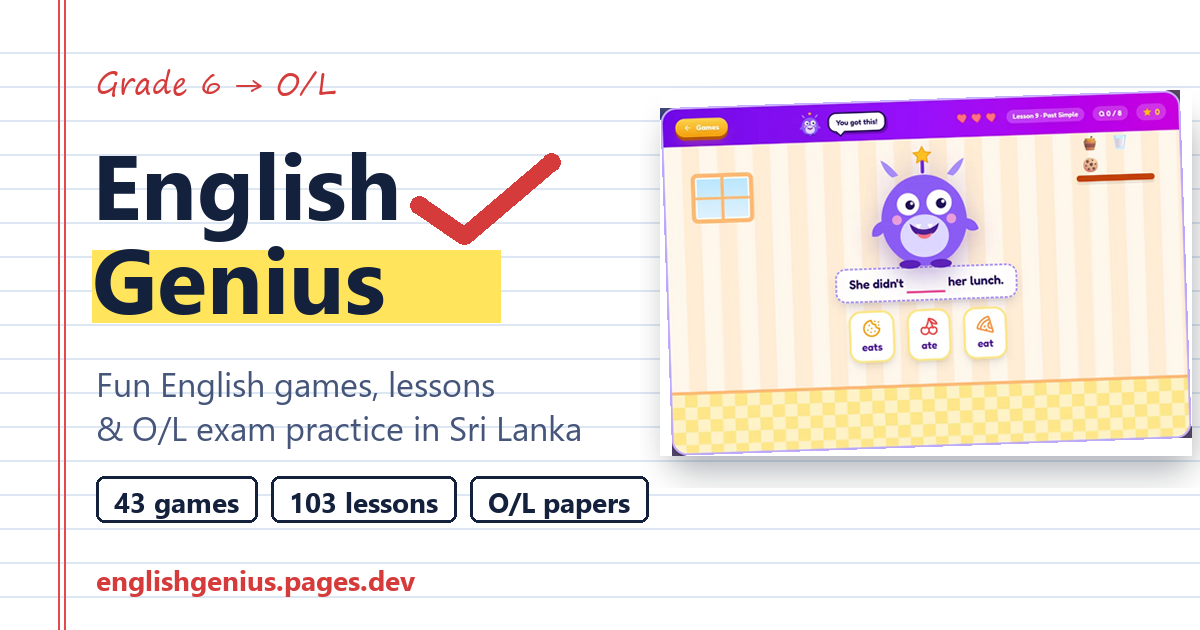
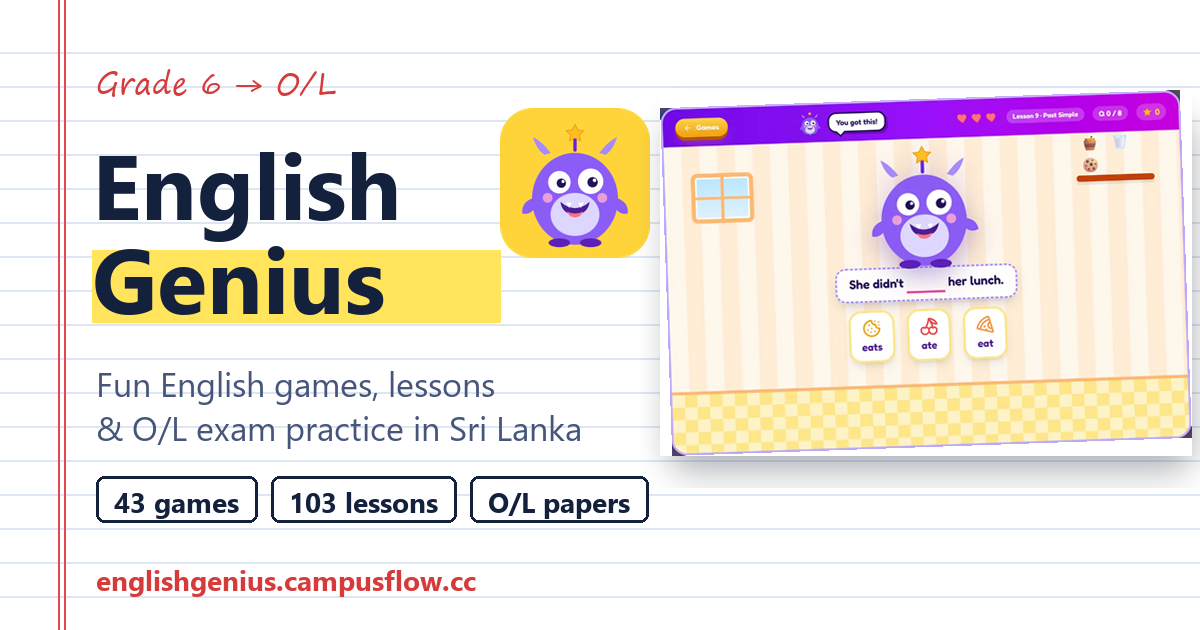
new

Changed region(s): [[0.3392, 0.1508, 0.555, 0.4222], [0.2467, 0.9048, 0.4008, 0.9651]]

diff --git a/ta/index.html b/ta/index.html
@@ -5,11 +5,11 @@
 <meta name="viewport" content="width=device-width, initial-scale=1, viewport-fit=cover">
 <title>English Genius | ஆங்கில விளையாட்டுகள் &amp; O/L பாடங்கள்</title>
 <meta name="description" content="தரம் 6 முதல் O/L வரையிலான இலங்கை மாணவர்களுக்கு 43 ஆங்கில விளையாட்டுகள், 103 பாடங்கள், 12 காலங்கள், பேச்சுப் பயிற்சி மற்றும் உண்மை வடிவ O/L பயிற்சி வினாத்தாள்கள்.">
-<link rel="canonical" href="https://englishgenius.pages.dev/ta/">
-<link rel="alternate" hreflang="en" href="https://englishgenius.pages.dev/">
-<link rel="alternate" hreflang="si" href="https://englishgenius.pages.dev/si/">
-<link rel="alternate" hreflang="ta" href="https://englishgenius.pages.dev/ta/">
-<link rel="alternate" hreflang="x-default" href="https://englishgenius.pages.dev/">
+<link rel="canonical" href="https://englishgenius.campusflow.cc/ta/">
+<link rel="alternate" hreflang="en" href="https://englishgenius.campusflow.cc/">
+<link rel="alternate" hreflang="si" href="https://englishgenius.campusflow.cc/si/">
+<link rel="alternate" hreflang="ta" href="https://englishgenius.campusflow.cc/ta/">
+<link rel="alternate" hreflang="x-default" href="https://englishgenius.campusflow.cc/">
 <meta name="robots" content="index, follow, max-image-preview:large">
 <meta name="theme-color" content="#14213D">
 <meta name="color-scheme" content="light">
@@ -18,15 +18,15 @@
 <meta property="og:site_name" content="English Genius">
 <meta property="og:title" content="English Genius: மகிழ்ச்சியாக ஆங்கிலம் கற்போம்">
 <meta property="og:description" content="தரம் 6 முதல் O/L வரையிலான மாணவர்களுக்கு விளையாட்டுகள், பாடங்கள், பேச்சுப் பயிற்சி மற்றும் O/L வினாத்தாள்கள்.">
-<meta property="og:url" content="https://englishgenius.pages.dev/ta/">
-<meta property="og:image" content="https://englishgenius.pages.dev/assets/og-image.png">
+<meta property="og:url" content="https://englishgenius.campusflow.cc/ta/">
+<meta property="og:image" content="https://englishgenius.campusflow.cc/assets/og-image.png">
 <meta property="og:image:width" content="1200">
 <meta property="og:image:height" content="630">
 <meta property="og:locale" content="ta_LK">
 <meta name="twitter:card" content="summary_large_image">
 <meta name="twitter:title" content="English Genius: மகிழ்ச்சியாக ஆங்கிலம் கற்போம்">
 <meta name="twitter:description" content="தரம் 6 முதல் O/L வரையிலான மாணவர்களுக்கு விளையாட்டுகள், பாடங்கள், பேச்சுப் பயிற்சி மற்றும் O/L வினாத்தாள்கள்.">
-<meta name="twitter:image" content="https://englishgenius.pages.dev/assets/og-image.png">
+<meta name="twitter:image" content="https://englishgenius.campusflow.cc/assets/og-image.png">
 <link rel="icon" href="../favicon.ico" sizes="32x32">
 <link rel="icon" href="../assets/icon.svg" type="image/svg+xml">
 <link rel="apple-touch-icon" href="../assets/icon-180.png">
@@ -35,15 +35,15 @@
 <link rel="preconnect" href="https://fonts.gstatic.com" crossorigin>
 <link href="https://fonts.googleapis.com/css2?family=Bricolage+Grotesque:opsz,wght@12..96,600;12..96,800&family=Lexend:wght@400;600;700&family=Caveat:wght@600;700&family=Noto+Sans+Tamil:wght@500;700;800&display=swap" rel="stylesheet">
 <link rel="preload" as="image" href="../assets/shots/feed.webp" type="image/webp">
-<link rel="stylesheet" href="../assets/site.css?v=mvhv3kwt">
-<script type="application/ld+json">{"@context":"https://schema.org","@graph":[{"@type":"EducationalOrganization","@id":"https://englishgenius.pages.dev/#org","name":"English Genius","url":"https://englishgenius.pages.dev/","logo":"https://englishgenius.pages.dev/assets/icon-512.png","description":"தரம் 6 முதல் O/L வரையிலான இலங்கை மாணவர்களுக்கு 43 ஆங்கில விளையாட்டுகள், 103 பாடங்கள், 12 காலங்கள், பேச்சுப் பயிற்சி மற்றும் உண்மை வடிவ O/L பயிற்சி வினாத்தாள்கள்.","areaServed":{"@type":"Country","name":"Sri Lanka"},"address":{"@type":"PostalAddress","addressCountry":"LK"},"contactPoint":{"@type":"ContactPoint","telephone":"+94722816456","contactType":"customer support","areaServed":"LK","availableLanguage":["English","Sinhala","Tamil"]}},{"@type":"WebSite","@id":"https://englishgenius.pages.dev/#site","name":"English Genius","url":"https://englishgenius.pages.dev/","inLanguage":"ta","publisher":{"@id":"https://englishgenius.pages.dev/#org"}},{"@type":"WebPage","name":"English Genius | ஆங்கில விளையாட்டுகள் & O/L பாடங்கள்","url":"https://englishgenius.pages.dev/ta/","inLanguage":"ta","isPartOf":{"@id":"https://englishgenius.pages.dev/#site"},"about":{"@id":"https://englishgenius.pages.dev/#org"}},{"@type":"FAQPage","inLanguage":"ta","mainEntity":[{"@type":"Question","name":"கணக்கை எப்படிப் பெறுவது?","acceptedAnswer":{"@type":"Answer","text":"072 281 6456 இல் WhatsApp அல்லது தொலைபேசி மூலம் எங்களைத் தொடர்பு கொள்ளுங்கள். நாங்கள் கணக்கை உருவாக்கி பயனர்பெயரையும் கடவுச்சொல்லையும் அனுப்புவோம்."}},{"@type":"Question","name":"இது எந்தத் தரங்களுக்கு?","acceptedAnswer":{"@type":"Answer","text":"தரம் 6, 7, 8, 9 மற்றும் O/L (தரம் 10, 11). ஒவ்வொரு தரத்திற்கும் சொந்தப் பாடங்களும் மாதிரித் தேர்வும் உண்டு."}},{"@type":"Question","name":"ஏதாவது நிறுவ வேண்டுமா?","acceptedAnswer":{"@type":"Answer","text":"இல்லை. இது தொலைபேசி, டேப்லெட் மற்றும் கணினிகளின் இணைய உலாவியில் இயங்குகிறது. செயலி போல முகப்புத் திரையிலும் சேர்க்கலாம்."}},{"@type":"Question","name":"இது O/L ஆங்கில வினாத்தாளைப் பின்பற்றுகிறதா?","acceptedAnswer":{"@type":"Answer","text":"ஆம். பயிற்சி வினாத்தாள்கள் O/L ஆங்கில வினாத்தாளின் 16-சோதனை வடிவத்தைப் பின்பற்றுகின்றன, சொந்த வினாக்கள் மற்றும் மதிப்பீட்டு வழிகாட்டியுடன்."}},{"@type":"Question","name":"இது குழந்தைகளுக்குப் பாதுகாப்பானதா?","acceptedAnswer":{"@type":"Answer","text":"ஆம். பொதுப் பதிவு, விளம்பரங்கள் அல்லது அந்நியர்களுடன் அரட்டை இல்லை. ஒவ்வொரு மாணவரும் எதைத் திறக்கலாம் என்பதை ஆசிரியர்கள் கட்டுப்படுத்துகிறார்கள்."}},{"@type":"Question","name":"மாணவர்கள் பேச்சுப் பயிற்சி செய்யலாமா?","acceptedAnswer":{"@type":"Answer","text":"ஆம். Talk Town பாடங்களும் குரல் விளையாட்டுகளும் மைக்ரோஃபோனைப் பயன்படுத்துகின்றன, எனவே மாணவர்கள் பேசவும் கேட்கவும் பயிற்சி செய்யலாம்."}}]}]}</script>
+<link rel="stylesheet" href="../assets/site.css?v=mvhvpg10">
+<script type="application/ld+json">{"@context":"https://schema.org","@graph":[{"@type":"EducationalOrganization","@id":"https://englishgenius.campusflow.cc/#org","name":"English Genius","url":"https://englishgenius.campusflow.cc/","logo":"https://englishgenius.campusflow.cc/assets/icon-512.png","description":"தரம் 6 முதல் O/L வரையிலான இலங்கை மாணவர்களுக்கு 43 ஆங்கில விளையாட்டுகள், 103 பாடங்கள், 12 காலங்கள், பேச்சுப் பயிற்சி மற்றும் உண்மை வடிவ O/L பயிற்சி வினாத்தாள்கள்.","areaServed":{"@type":"Country","name":"Sri Lanka"},"address":{"@type":"PostalAddress","addressCountry":"LK"},"contactPoint":{"@type":"ContactPoint","telephone":"+94722816456","contactType":"customer support","areaServed":"LK","availableLanguage":["English","Sinhala","Tamil"]}},{"@type":"WebSite","@id":"https://englishgenius.campusflow.cc/#site","name":"English Genius","url":"https://englishgenius.campusflow.cc/","inLanguage":"ta","publisher":{"@id":"https://englishgenius.campusflow.cc/#org"}},{"@type":"WebPage","name":"English Genius | ஆங்கில விளையாட்டுகள் & O/L பாடங்கள்","url":"https://englishgenius.campusflow.cc/ta/","inLanguage":"ta","isPartOf":{"@id":"https://englishgenius.campusflow.cc/#site"},"about":{"@id":"https://englishgenius.campusflow.cc/#org"}},{"@type":"FAQPage","inLanguage":"ta","mainEntity":[{"@type":"Question","name":"கணக்கை எப்படிப் பெறுவது?","acceptedAnswer":{"@type":"Answer","text":"072 281 6456 இல் WhatsApp அல்லது தொலைபேசி மூலம் எங்களைத் தொடர்பு கொள்ளுங்கள். நாங்கள் கணக்கை உருவாக்கி பயனர்பெயரையும் கடவுச்சொல்லையும் அனுப்புவோம்."}},{"@type":"Question","name":"இது எந்தத் தரங்களுக்கு?","acceptedAnswer":{"@type":"Answer","text":"தரம் 6, 7, 8, 9 மற்றும் O/L (தரம் 10, 11). ஒவ்வொரு தரத்திற்கும் சொந்தப் பாடங்களும் மாதிரித் தேர்வும் உண்டு."}},{"@type":"Question","name":"ஏதாவது நிறுவ வேண்டுமா?","acceptedAnswer":{"@type":"Answer","text":"இல்லை. இது தொலைபேசி, டேப்லெட் மற்றும் கணினிகளின் இணைய உலாவியில் இயங்குகிறது. செயலி போல முகப்புத் திரையிலும் சேர்க்கலாம்."}},{"@type":"Question","name":"இது O/L ஆங்கில வினாத்தாளைப் பின்பற்றுகிறதா?","acceptedAnswer":{"@type":"Answer","text":"ஆம். பயிற்சி வினாத்தாள்கள் O/L ஆங்கில வினாத்தாளின் 16-சோதனை வடிவத்தைப் பின்பற்றுகின்றன, சொந்த வினாக்கள் மற்றும் மதிப்பீட்டு வழிகாட்டியுடன்."}},{"@type":"Question","name":"இது குழந்தைகளுக்குப் பாதுகாப்பானதா?","acceptedAnswer":{"@type":"Answer","text":"ஆம். பொதுப் பதிவு, விளம்பரங்கள் அல்லது அந்நியர்களுடன் அரட்டை இல்லை. ஒவ்வொரு மாணவரும் எதைத் திறக்கலாம் என்பதை ஆசிரியர்கள் கட்டுப்படுத்துகிறார்கள்."}},{"@type":"Question","name":"மாணவர்கள் பேச்சுப் பயிற்சி செய்யலாமா?","acceptedAnswer":{"@type":"Answer","text":"ஆம். Talk Town பாடங்களும் குரல் விளையாட்டுகளும் மைக்ரோஃபோனைப் பயன்படுத்துகின்றன, எனவே மாணவர்கள் பேசவும் கேட்கவும் பயிற்சி செய்யலாம்."}}]}]}</script>
 </head>
 <body class="lang-ta">
 <a class="skip" href="#main">உள்ளடக்கத்திற்குச் செல்லவும்</a>
 
 <header class="bar">
   <nav class="nav wrap" aria-label="Main">
-    <a class="logo" href="../" aria-label="English Genius home"><svg class="tick" viewBox="0 0 40 32" aria-hidden="true"><path d="M3 17l10 10L37 3"/></svg><span>English <b>Genius</b></span></a>
+    <a class="logo" href="../" aria-label="English Genius home"><img class="mark" src="../assets/icon.svg" width="38" height="38" alt=""><span>English <b>Genius</b></span></a>
     <button class="menuBtn" aria-expanded="false" aria-controls="navLinks"><span class="sr">பட்டியல்</span><i></i><i></i><i></i></button>
     <div class="navLinks" id="navLinks">
       <a href="#games">விளையாட்டுகள்</a>
@@ -213,7 +213,7 @@
 
 <footer class="foot">
   <div class="wrap footIn">
-    <div><a class="logo" href="../"><svg class="tick" viewBox="0 0 40 32" aria-hidden="true"><path d="M3 17l10 10L37 3"/></svg><span>English <b>Genius</b></span></a><p>தரம் 6 முதல் O/L வரையிலான இலங்கை மாணவர்களுக்கு மகிழ்ச்சியான ஆங்கிலக் கற்றல்.</p></div>
+    <div><a class="logo" href="../"><img class="mark" src="../assets/icon.svg" width="38" height="38" alt=""><span>English <b>Genius</b></span></a><p>தரம் 6 முதல் O/L வரையிலான இலங்கை மாணவர்களுக்கு மகிழ்ச்சியான ஆங்கிலக் கற்றல்.</p></div>
     <nav class="footLinks" aria-label="Footer"><a href="#games">விளையாட்டுகள்</a><a href="#path">தரம் 6 → O/L</a><a href="#exam">O/L தேர்வு மண்டபம்</a><a href="#faq">கேள்விகள்</a><a href="../app/login.html" rel="nofollow">மாணவர் உள்நுழைவு</a></nav>
     <div class="footLinks"><a href="tel:+94722816456" data-tel><span data-phone>072 281 6456</span></a><a href="https://wa.me/94722816456?text=%E0%AE%B5%E0%AE%A3%E0%AE%95%E0%AF%8D%E0%AE%95%E0%AE%AE%E0%AF%8D!%20%E0%AE%A8%E0%AE%BE%E0%AE%A9%E0%AF%8D%20English%20Genius%20%E0%AE%87%E0%AE%B2%E0%AF%8D%20%E0%AE%87%E0%AE%A3%E0%AF%88%E0%AE%AF%20%E0%AE%B5%E0%AE%BF%E0%AE%B0%E0%AF%81%E0%AE%AE%E0%AF%8D%E0%AE%AA%E0%AF%81%E0%AE%95%E0%AE%BF%E0%AE%B1%E0%AF%87%E0%AE%A9%E0%AF%8D." data-wa target="_blank" rel="noopener">WhatsApp</a><div class="langs"><a href=".././" hreflang="en" lang="en">EN</a><a href="../si/" hreflang="si" lang="si">සිං</a><a href="../ta/" hreflang="ta" lang="ta" aria-current="page">தமி</a></div></div>
   </div>
@@ -222,6 +222,6 @@
 
 <a class="waFloat" href="https://wa.me/94722816456?text=%E0%AE%B5%E0%AE%A3%E0%AE%95%E0%AF%8D%E0%AE%95%E0%AE%AE%E0%AF%8D!%20%E0%AE%A8%E0%AE%BE%E0%AE%A9%E0%AF%8D%20English%20Genius%20%E0%AE%87%E0%AE%B2%E0%AF%8D%20%E0%AE%87%E0%AE%A3%E0%AF%88%E0%AE%AF%20%E0%AE%B5%E0%AE%BF%E0%AE%B0%E0%AF%81%E0%AE%AE%E0%AF%8D%E0%AE%AA%E0%AF%81%E0%AE%95%E0%AE%BF%E0%AE%B1%E0%AF%87%E0%AE%A9%E0%AF%8D." data-wa target="_blank" rel="noopener" aria-label="WhatsApp இல் பேசுங்கள்"><svg aria-hidden="true" viewBox="0 0 32 32"><path fill="currentColor" d="M16 3a13 13 0 0 0-11.2 19.6L3 29l6.6-1.7A13 13 0 1 0 16 3Zm0 23.6a10.6 10.6 0 0 1-5.4-1.5l-.4-.2-3.9 1 1-3.8-.2-.4A10.6 10.6 0 1 1 16 26.6Zm5.8-7.9c-.3-.2-1.9-.9-2.2-1s-.5-.2-.7.2-.8 1-1 1.2-.4.2-.7 0a8.6 8.6 0 0 1-4.3-3.7c-.3-.6.3-.5.9-1.6a.6.6 0 0 0 0-.5l-1-2.4c-.3-.6-.5-.5-.7-.5h-.6a1.2 1.2 0 0 0-.9.4 3.6 3.6 0 0 0-1.1 2.7 6.3 6.3 0 0 0 1.3 3.3 14.4 14.4 0 0 0 5.5 4.9c2 .9 2.8.9 3.8.8a3.3 3.3 0 0 0 2.1-1.5 2.7 2.7 0 0 0 .2-1.5c-.1-.2-.3-.3-.6-.4Z"/></svg></a>
 
-<script src="../assets/site.js?v=mvhv3kwt" defer data-msg="வணக்கம்! நான் English Genius இல் இணைய விரும்புகிறேன்."></script>
+<script src="../assets/site.js?v=mvhvpg10" defer data-msg="வணக்கம்! நான் English Genius இல் இணைய விரும்புகிறேன்."></script>
 </body>
 </html>

diff --git a/si/index.html b/si/index.html
@@ -5,11 +5,11 @@
 <meta name="viewport" content="width=device-width, initial-scale=1, viewport-fit=cover">
 <title>English Genius | ඉංග්රීසි ක්රීඩා සහ O/L පාඩම්</title>
 <meta name="description" content="6 ශ්රේණියේ සිට O/L දක්වා ශ්රී ලාංකික සිසුන් සඳහා ඉංග්රීසි ක්රීඩා 43ක්, පාඩම් 103ක්, කාල 12ම, කථන පුහුණුව සහ සැබෑ ආකෘතියේ O/L ප්රශ්න පත්ර.">
-<link rel="canonical" href="https://englishgenius.pages.dev/si/">
-<link rel="alternate" hreflang="en" href="https://englishgenius.pages.dev/">
-<link rel="alternate" hreflang="si" href="https://englishgenius.pages.dev/si/">
-<link rel="alternate" hreflang="ta" href="https://englishgenius.pages.dev/ta/">
-<link rel="alternate" hreflang="x-default" href="https://englishgenius.pages.dev/">
+<link rel="canonical" href="https://englishgenius.campusflow.cc/si/">
+<link rel="alternate" hreflang="en" href="https://englishgenius.campusflow.cc/">
+<link rel="alternate" hreflang="si" href="https://englishgenius.campusflow.cc/si/">
+<link rel="alternate" hreflang="ta" href="https://englishgenius.campusflow.cc/ta/">
+<link rel="alternate" hreflang="x-default" href="https://englishgenius.campusflow.cc/">
 <meta name="robots" content="index, follow, max-image-preview:large">
 <meta name="theme-color" content="#14213D">
 <meta name="color-scheme" content="light">
@@ -18,15 +18,15 @@
 <meta property="og:site_name" content="English Genius">
 <meta property="og:title" content="English Genius: විනෝදයෙන් ඉංග්රීසි ඉගෙන ගන්න">
 <meta property="og:description" content="6 ශ්රේණියේ සිට O/L දක්වා සිසුන් සඳහා ක්රීඩා, පාඩම්, කථන පුහුණුව සහ O/L විභාග ප්රශ්න පත්ර.">
-<meta property="og:url" content="https://englishgenius.pages.dev/si/">
-<meta property="og:image" content="https://englishgenius.pages.dev/assets/og-image.png">
+<meta property="og:url" content="https://englishgenius.campusflow.cc/si/">
+<meta property="og:image" content="https://englishgenius.campusflow.cc/assets/og-image.png">
 <meta property="og:image:width" content="1200">
 <meta property="og:image:height" content="630">
 <meta property="og:locale" content="si_LK">
 <meta name="twitter:card" content="summary_large_image">
 <meta name="twitter:title" content="English Genius: විනෝදයෙන් ඉංග්රීසි ඉගෙන ගන්න">
 <meta name="twitter:description" content="6 ශ්රේණියේ සිට O/L දක්වා සිසුන් සඳහා ක්රීඩා, පාඩම්, කථන පුහුණුව සහ O/L විභාග ප්රශ්න පත්ර.">
-<meta name="twitter:image" content="https://englishgenius.pages.dev/assets/og-image.png">
+<meta name="twitter:image" content="https://englishgenius.campusflow.cc/assets/og-image.png">
 <link rel="icon" href="../favicon.ico" sizes="32x32">
 <link rel="icon" href="../assets/icon.svg" type="image/svg+xml">
 <link rel="apple-touch-icon" href="../assets/icon-180.png">
@@ -35,15 +35,15 @@
 <link rel="preconnect" href="https://fonts.gstatic.com" crossorigin>
 <link href="https://fonts.googleapis.com/css2?family=Bricolage+Grotesque:opsz,wght@12..96,600;12..96,800&family=Lexend:wght@400;600;700&family=Caveat:wght@600;700&family=Noto+Sans+Sinhala:wght@500;700;800&display=swap" rel="stylesheet">
 <link rel="preload" as="image" href="../assets/shots/feed.webp" type="image/webp">
-<link rel="stylesheet" href="../assets/site.css?v=mvhv3kwt">
-<script type="application/ld+json">{"@context":"https://schema.org","@graph":[{"@type":"EducationalOrganization","@id":"https://englishgenius.pages.dev/#org","name":"English Genius","url":"https://englishgenius.pages.dev/","logo":"https://englishgenius.pages.dev/assets/icon-512.png","description":"6 ශ්රේණියේ සිට O/L දක්වා ශ්රී ලාංකික සිසුන් සඳහා ඉංග්රීසි ක්රීඩා 43ක්, පාඩම් 103ක්, කාල 12ම, කථන පුහුණුව සහ සැබෑ ආකෘතියේ O/L ප්රශ්න පත්ර.","areaServed":{"@type":"Country","name":"Sri Lanka"},"address":{"@type":"PostalAddress","addressCountry":"LK"},"contactPoint":{"@type":"ContactPoint","telephone":"+94722816456","contactType":"customer support","areaServed":"LK","availableLanguage":["English","Sinhala","Tamil"]}},{"@type":"WebSite","@id":"https://englishgenius.pages.dev/#site","name":"English Genius","url":"https://englishgenius.pages.dev/","inLanguage":"si","publisher":{"@id":"https://englishgenius.pages.dev/#org"}},{"@type":"WebPage","name":"English Genius | ඉංග්රීසි ක්රීඩා සහ O/L පාඩම්","url":"https://englishgenius.pages.dev/si/","inLanguage":"si","isPartOf":{"@id":"https://englishgenius.pages.dev/#site"},"about":{"@id":"https://englishgenius.pages.dev/#org"}},{"@type":"FAQPage","inLanguage":"si","mainEntity":[{"@type":"Question","name":"ගිණුමක් ලබාගන්නේ කෙසේද?","acceptedAnswer":{"@type":"Answer","text":"072 281 6456 අංකයට WhatsApp හෝ දුරකථනයෙන් අප අමතන්න. අපි ගිණුම සාදා පරිශීලක නාමය සහ මුරපදය එවන්නෙමු."}},{"@type":"Question","name":"මෙය කුමන ශ්රේණි සඳහාද?","acceptedAnswer":{"@type":"Answer","text":"6, 7, 8, 9 ශ්රේණි සහ O/L (10 සහ 11 ශ්රේණි). සෑම ශ්රේණියකටම තමන්ගේම පාඩම් සහ ආදර්ශ විභාගයක් ඇත."}},{"@type":"Question","name":"කිසිවක් ස්ථාපනය කළ යුතුද?","acceptedAnswer":{"@type":"Answer","text":"නැත. එය දුරකථන, ටැබ්ලට් සහ පරිගණකවල වෙබ් බ්රව්සරයේ ක්රියා කරයි. ඔබට එය යෙදුමක් මෙන් මුල් තිරයට ද එක් කළ හැක."}},{"@type":"Question","name":"එය O/L ඉංග්රීසි ප්රශ්න පත්රයට අනුකූලද?","acceptedAnswer":{"@type":"Answer","text":"ඔව්. පුහුණු ප්රශ්න පත්ර O/L ඉංග්රීසි ප්රශ්න පත්රයේ ටෙස්ට් 16 ආකෘතිය අනුගමනය කරයි, මුල් ප්රශ්න සහ ලකුණු දීමේ මාර්ගෝපදේශයක් සමඟ."}},{"@type":"Question","name":"එය ළමුන්ට ආරක්ෂිතද?","acceptedAnswer":{"@type":"Answer","text":"ඔව්. පොදු ලියාපදිංචියක්, දැන්වීම් හෝ ආගන්තුකයන් සමඟ චැට් නැත. එක් එක් සිසුවාට විවෘත කළ හැකි දේ ගුරුවරුන් පාලනය කරති."}},{"@type":"Question","name":"සිසුන්ට කතා කිරීම පුහුණු විය හැකිද?","acceptedAnswer":{"@type":"Answer","text":"ඔව්. Talk Town පාඩම් සහ කටහඬ ක්රීඩා මයික්රොෆෝනය භාවිත කරයි, එබැවින් සිසුන්ට කතා කිරීම සහ සවන් දීම පුහුණු විය හැක."}}]}]}</script>
+<link rel="stylesheet" href="../assets/site.css?v=mvhvpg10">
+<script type="application/ld+json">{"@context":"https://schema.org","@graph":[{"@type":"EducationalOrganization","@id":"https://englishgenius.campusflow.cc/#org","name":"English Genius","url":"https://englishgenius.campusflow.cc/","logo":"https://englishgenius.campusflow.cc/assets/icon-512.png","description":"6 ශ්රේණියේ සිට O/L දක්වා ශ්රී ලාංකික සිසුන් සඳහා ඉංග්රීසි ක්රීඩා 43ක්, පාඩම් 103ක්, කාල 12ම, කථන පුහුණුව සහ සැබෑ ආකෘතියේ O/L ප්රශ්න පත්ර.","areaServed":{"@type":"Country","name":"Sri Lanka"},"address":{"@type":"PostalAddress","addressCountry":"LK"},"contactPoint":{"@type":"ContactPoint","telephone":"+94722816456","contactType":"customer support","areaServed":"LK","availableLanguage":["English","Sinhala","Tamil"]}},{"@type":"WebSite","@id":"https://englishgenius.campusflow.cc/#site","name":"English Genius","url":"https://englishgenius.campusflow.cc/","inLanguage":"si","publisher":{"@id":"https://englishgenius.campusflow.cc/#org"}},{"@type":"WebPage","name":"English Genius | ඉංග්රීසි ක්රීඩා සහ O/L පාඩම්","url":"https://englishgenius.campusflow.cc/si/","inLanguage":"si","isPartOf":{"@id":"https://englishgenius.campusflow.cc/#site"},"about":{"@id":"https://englishgenius.campusflow.cc/#org"}},{"@type":"FAQPage","inLanguage":"si","mainEntity":[{"@type":"Question","name":"ගිණුමක් ලබාගන්නේ කෙසේද?","acceptedAnswer":{"@type":"Answer","text":"072 281 6456 අංකයට WhatsApp හෝ දුරකථනයෙන් අප අමතන්න. අපි ගිණුම සාදා පරිශීලක නාමය සහ මුරපදය එවන්නෙමු."}},{"@type":"Question","name":"මෙය කුමන ශ්රේණි සඳහාද?","acceptedAnswer":{"@type":"Answer","text":"6, 7, 8, 9 ශ්රේණි සහ O/L (10 සහ 11 ශ්රේණි). සෑම ශ්රේණියකටම තමන්ගේම පාඩම් සහ ආදර්ශ විභාගයක් ඇත."}},{"@type":"Question","name":"කිසිවක් ස්ථාපනය කළ යුතුද?","acceptedAnswer":{"@type":"Answer","text":"නැත. එය දුරකථන, ටැබ්ලට් සහ පරිගණකවල වෙබ් බ්රව්සරයේ ක්රියා කරයි. ඔබට එය යෙදුමක් මෙන් මුල් තිරයට ද එක් කළ හැක."}},{"@type":"Question","name":"එය O/L ඉංග්රීසි ප්රශ්න පත්රයට අනුකූලද?","acceptedAnswer":{"@type":"Answer","text":"ඔව්. පුහුණු ප්රශ්න පත්ර O/L ඉංග්රීසි ප්රශ්න පත්රයේ ටෙස්ට් 16 ආකෘතිය අනුගමනය කරයි, මුල් ප්රශ්න සහ ලකුණු දීමේ මාර්ගෝපදේශයක් සමඟ."}},{"@type":"Question","name":"එය ළමුන්ට ආරක්ෂිතද?","acceptedAnswer":{"@type":"Answer","text":"ඔව්. පොදු ලියාපදිංචියක්, දැන්වීම් හෝ ආගන්තුකයන් සමඟ චැට් නැත. එක් එක් සිසුවාට විවෘත කළ හැකි දේ ගුරුවරුන් පාලනය කරති."}},{"@type":"Question","name":"සිසුන්ට කතා කිරීම පුහුණු විය හැකිද?","acceptedAnswer":{"@type":"Answer","text":"ඔව්. Talk Town පාඩම් සහ කටහඬ ක්රීඩා මයික්රොෆෝනය භාවිත කරයි, එබැවින් සිසුන්ට කතා කිරීම සහ සවන් දීම පුහුණු විය හැක."}}]}]}</script>
 </head>
 <body class="lang-si">
 <a class="skip" href="#main">අන්තර්ගතයට යන්න</a>
 
 <header class="bar">
   <nav class="nav wrap" aria-label="Main">
-    <a class="logo" href="../" aria-label="English Genius home"><svg class="tick" viewBox="0 0 40 32" aria-hidden="true"><path d="M3 17l10 10L37 3"/></svg><span>English <b>Genius</b></span></a>
+    <a class="logo" href="../" aria-label="English Genius home"><img class="mark" src="../assets/icon.svg" width="38" height="38" alt=""><span>English <b>Genius</b></span></a>
     <button class="menuBtn" aria-expanded="false" aria-controls="navLinks"><span class="sr">මෙනුව</span><i></i><i></i><i></i></button>
     <div class="navLinks" id="navLinks">
       <a href="#games">ක්රීඩා</a>
@@ -213,7 +213,7 @@
 
 <footer class="foot">
   <div class="wrap footIn">
-    <div><a class="logo" href="../"><svg class="tick" viewBox="0 0 40 32" aria-hidden="true"><path d="M3 17l10 10L37 3"/></svg><span>English <b>Genius</b></span></a><p>6 ශ්රේණියේ සිට O/L දක්වා ශ්රී ලාංකික සිසුන් සඳහා විනෝදජනක ඉංග්රීසි ඉගෙනීම.</p></div>
+    <div><a class="logo" href="../"><img class="mark" src="../assets/icon.svg" width="38" height="38" alt=""><span>English <b>Genius</b></span></a><p>6 ශ්රේණියේ සිට O/L දක්වා ශ්රී ලාංකික සිසුන් සඳහා විනෝදජනක ඉංග්රීසි ඉගෙනීම.</p></div>
     <nav class="footLinks" aria-label="Footer"><a href="#games">ක්රීඩා</a><a href="#path">6 ශ්රේණිය → O/L</a><a href="#exam">O/L විභාග ශාලාව</a><a href="#faq">ප්රශ්න</a><a href="../app/login.html" rel="nofollow">සිසු පිවිසුම</a></nav>
     <div class="footLinks"><a href="tel:+94722816456" data-tel><span data-phone>072 281 6456</span></a><a href="https://wa.me/94722816456?text=%E0%B6%86%E0%B6%BA%E0%B7%94%E0%B6%B6%E0%B7%9D%E0%B7%80%E0%B6%B1%E0%B7%8A!%20%E0%B6%B8%E0%B6%A7%20English%20Genius%20%E0%B7%80%E0%B7%99%E0%B6%AD%20%E0%B6%91%E0%B6%9A%E0%B7%8A%E0%B7%80%E0%B7%93%E0%B6%B8%E0%B6%A7%20%E0%B6%85%E0%B7%80%E0%B7%81%E0%B7%8A%E2%80%8D%E0%B6%BA%E0%B6%BA%E0%B7%92." data-wa target="_blank" rel="noopener">WhatsApp</a><div class="langs"><a href=".././" hreflang="en" lang="en">EN</a><a href="../si/" hreflang="si" lang="si" aria-current="page">සිං</a><a href="../ta/" hreflang="ta" lang="ta">தமி</a></div></div>
   </div>
@@ -222,6 +222,6 @@
 
 <a class="waFloat" href="https://wa.me/94722816456?text=%E0%B6%86%E0%B6%BA%E0%B7%94%E0%B6%B6%E0%B7%9D%E0%B7%80%E0%B6%B1%E0%B7%8A!%20%E0%B6%B8%E0%B6%A7%20English%20Genius%20%E0%B7%80%E0%B7%99%E0%B6%AD%20%E0%B6%91%E0%B6%9A%E0%B7%8A%E0%B7%80%E0%B7%93%E0%B6%B8%E0%B6%A7%20%E0%B6%85%E0%B7%80%E0%B7%81%E0%B7%8A%E2%80%8D%E0%B6%BA%E0%B6%BA%E0%B7%92." data-wa target="_blank" rel="noopener" aria-label="WhatsApp කරන්න"><svg aria-hidden="true" viewBox="0 0 32 32"><path fill="currentColor" d="M16 3a13 13 0 0 0-11.2 19.6L3 29l6.6-1.7A13 13 0 1 0 16 3Zm0 23.6a10.6 10.6 0 0 1-5.4-1.5l-.4-.2-3.9 1 1-3.8-.2-.4A10.6 10.6 0 1 1 16 26.6Zm5.8-7.9c-.3-.2-1.9-.9-2.2-1s-.5-.2-.7.2-.8 1-1 1.2-.4.2-.7 0a8.6 8.6 0 0 1-4.3-3.7c-.3-.6.3-.5.9-1.6a.6.6 0 0 0 0-.5l-1-2.4c-.3-.6-.5-.5-.7-.5h-.6a1.2 1.2 0 0 0-.9.4 3.6 3.6 0 0 0-1.1 2.7 6.3 6.3 0 0 0 1.3 3.3 14.4 14.4 0 0 0 5.5 4.9c2 .9 2.8.9 3.8.8a3.3 3.3 0 0 0 2.1-1.5 2.7 2.7 0 0 0 .2-1.5c-.1-.2-.3-.3-.6-.4Z"/></svg></a>
 
-<script src="../assets/site.js?v=mvhv3kwt" defer data-msg="ආයුබෝවන්! මට English Genius වෙත එක්වීමට අවශ්යයි."></script>
+<script src="../assets/site.js?v=mvhvpg10" defer data-msg="ආයුබෝවන්! මට English Genius වෙත එක්වීමට අවශ්යයි."></script>
 </body>
 </html>

diff --git a/index.html b/index.html
@@ -5,11 +5,11 @@
 <meta name="viewport" content="width=device-width, initial-scale=1, viewport-fit=cover">
 <title>English Genius | English Games &amp; O/L Lessons, Sri Lanka</title>
 <meta name="description" content="43 English games, 103 lessons, all 12 tenses, speaking practice and real-format O/L practice papers for Grade 6 to O/L students in Sri Lanka.">
-<link rel="canonical" href="https://englishgenius.pages.dev/">
-<link rel="alternate" hreflang="en" href="https://englishgenius.pages.dev/">
-<link rel="alternate" hreflang="si" href="https://englishgenius.pages.dev/si/">
-<link rel="alternate" hreflang="ta" href="https://englishgenius.pages.dev/ta/">
-<link rel="alternate" hreflang="x-default" href="https://englishgenius.pages.dev/">
+<link rel="canonical" href="https://englishgenius.campusflow.cc/">
+<link rel="alternate" hreflang="en" href="https://englishgenius.campusflow.cc/">
+<link rel="alternate" hreflang="si" href="https://englishgenius.campusflow.cc/si/">
+<link rel="alternate" hreflang="ta" href="https://englishgenius.campusflow.cc/ta/">
+<link rel="alternate" hreflang="x-default" href="https://englishgenius.campusflow.cc/">
 <meta name="robots" content="index, follow, max-image-preview:large">
 <meta name="theme-color" content="#14213D">
 <meta name="color-scheme" content="light">
@@ -18,15 +18,15 @@
 <meta property="og:site_name" content="English Genius">
 <meta property="og:title" content="English Genius: learn English the fun way">
 <meta property="og:description" content="Games, lessons, speaking practice and O/L exam papers for Grade 6 to O/L students in Sri Lanka.">
-<meta property="og:url" content="https://englishgenius.pages.dev/">
-<meta property="og:image" content="https://englishgenius.pages.dev/assets/og-image.png">
+<meta property="og:url" content="https://englishgenius.campusflow.cc/">
+<meta property="og:image" content="https://englishgenius.campusflow.cc/assets/og-image.png">
 <meta property="og:image:width" content="1200">
 <meta property="og:image:height" content="630">
 <meta property="og:locale" content="en_LK">
 <meta name="twitter:card" content="summary_large_image">
 <meta name="twitter:title" content="English Genius: learn English the fun way">
 <meta name="twitter:description" content="Games, lessons, speaking practice and O/L exam papers for Grade 6 to O/L students in Sri Lanka.">
-<meta name="twitter:image" content="https://englishgenius.pages.dev/assets/og-image.png">
+<meta name="twitter:image" content="https://englishgenius.campusflow.cc/assets/og-image.png">
 <link rel="icon" href="favicon.ico" sizes="32x32">
 <link rel="icon" href="assets/icon.svg" type="image/svg+xml">
 <link rel="apple-touch-icon" href="assets/icon-180.png">
@@ -35,15 +35,15 @@
 <link rel="preconnect" href="https://fonts.gstatic.com" crossorigin>
 <link href="https://fonts.googleapis.com/css2?family=Bricolage+Grotesque:opsz,wght@12..96,600;12..96,800&family=Lexend:wght@400;600;700&family=Caveat:wght@600;700&display=swap" rel="stylesheet">
 <link rel="preload" as="image" href="assets/shots/feed.webp" type="image/webp">
-<link rel="stylesheet" href="assets/site.css?v=mvhv3kwt">
-<script type="application/ld+json">{"@context":"https://schema.org","@graph":[{"@type":"EducationalOrganization","@id":"https://englishgenius.pages.dev/#org","name":"English Genius","url":"https://englishgenius.pages.dev/","logo":"https://englishgenius.pages.dev/assets/icon-512.png","description":"43 English games, 103 lessons, all 12 tenses, speaking practice and real-format O/L practice papers for Grade 6 to O/L students in Sri Lanka.","areaServed":{"@type":"Country","name":"Sri Lanka"},"address":{"@type":"PostalAddress","addressCountry":"LK"},"contactPoint":{"@type":"ContactPoint","telephone":"+94722816456","contactType":"customer support","areaServed":"LK","availableLanguage":["English","Sinhala","Tamil"]}},{"@type":"WebSite","@id":"https://englishgenius.pages.dev/#site","name":"English Genius","url":"https://englishgenius.pages.dev/","inLanguage":"en","publisher":{"@id":"https://englishgenius.pages.dev/#org"}},{"@type":"WebPage","name":"English Genius | English Games & O/L Lessons, Sri Lanka","url":"https://englishgenius.pages.dev/","inLanguage":"en","isPartOf":{"@id":"https://englishgenius.pages.dev/#site"},"about":{"@id":"https://englishgenius.pages.dev/#org"}},{"@type":"FAQPage","inLanguage":"en","mainEntity":[{"@type":"Question","name":"How do I get an account?","acceptedAnswer":{"@type":"Answer","text":"Contact us on WhatsApp or by phone at 072 281 6456. We create the account and send you the username and password."}},{"@type":"Question","name":"Which grades is it for?","acceptedAnswer":{"@type":"Answer","text":"Grade 6, 7, 8, 9 and O/L (Grades 10 and 11). Each grade has its own lessons and a mock exam."}},{"@type":"Question","name":"Do we need to install anything?","acceptedAnswer":{"@type":"Answer","text":"No. It works in the web browser on phones, tablets and computers. You can also add it to your home screen like an app."}},{"@type":"Question","name":"Does it follow the O/L English paper?","acceptedAnswer":{"@type":"Answer","text":"Yes. The practice papers follow the 16-test format of the O/L English paper, with original questions and a marking guide."}},{"@type":"Question","name":"Is it safe for children?","acceptedAnswer":{"@type":"Answer","text":"Yes. There is no public sign-up, no ads and no chat with strangers. Teachers control what each student can open."}},{"@type":"Question","name":"Can students practise speaking?","acceptedAnswer":{"@type":"Answer","text":"Yes. Talk Town lessons and voice games use the microphone, so students can practise speaking and listening."}}]}]}</script>
+<link rel="stylesheet" href="assets/site.css?v=mvhvpg10">
+<script type="application/ld+json">{"@context":"https://schema.org","@graph":[{"@type":"EducationalOrganization","@id":"https://englishgenius.campusflow.cc/#org","name":"English Genius","url":"https://englishgenius.campusflow.cc/","logo":"https://englishgenius.campusflow.cc/assets/icon-512.png","description":"43 English games, 103 lessons, all 12 tenses, speaking practice and real-format O/L practice papers for Grade 6 to O/L students in Sri Lanka.","areaServed":{"@type":"Country","name":"Sri Lanka"},"address":{"@type":"PostalAddress","addressCountry":"LK"},"contactPoint":{"@type":"ContactPoint","telephone":"+94722816456","contactType":"customer support","areaServed":"LK","availableLanguage":["English","Sinhala","Tamil"]}},{"@type":"WebSite","@id":"https://englishgenius.campusflow.cc/#site","name":"English Genius","url":"https://englishgenius.campusflow.cc/","inLanguage":"en","publisher":{"@id":"https://englishgenius.campusflow.cc/#org"}},{"@type":"WebPage","name":"English Genius | English Games & O/L Lessons, Sri Lanka","url":"https://englishgenius.campusflow.cc/","inLanguage":"en","isPartOf":{"@id":"https://englishgenius.campusflow.cc/#site"},"about":{"@id":"https://englishgenius.campusflow.cc/#org"}},{"@type":"FAQPage","inLanguage":"en","mainEntity":[{"@type":"Question","name":"How do I get an account?","acceptedAnswer":{"@type":"Answer","text":"Contact us on WhatsApp or by phone at 072 281 6456. We create the account and send you the username and password."}},{"@type":"Question","name":"Which grades is it for?","acceptedAnswer":{"@type":"Answer","text":"Grade 6, 7, 8, 9 and O/L (Grades 10 and 11). Each grade has its own lessons and a mock exam."}},{"@type":"Question","name":"Do we need to install anything?","acceptedAnswer":{"@type":"Answer","text":"No. It works in the web browser on phones, tablets and computers. You can also add it to your home screen like an app."}},{"@type":"Question","name":"Does it follow the O/L English paper?","acceptedAnswer":{"@type":"Answer","text":"Yes. The practice papers follow the 16-test format of the O/L English paper, with original questions and a marking guide."}},{"@type":"Question","name":"Is it safe for children?","acceptedAnswer":{"@type":"Answer","text":"Yes. There is no public sign-up, no ads and no chat with strangers. Teachers control what each student can open."}},{"@type":"Question","name":"Can students practise speaking?","acceptedAnswer":{"@type":"Answer","text":"Yes. Talk Town lessons and voice games use the microphone, so students can practise speaking and listening."}}]}]}</script>
 </head>
 <body class="lang-en">
 <a class="skip" href="#main">Skip to content</a>
 
 <header class="bar">
   <nav class="nav wrap" aria-label="Main">
-    <a class="logo" href="./" aria-label="English Genius home"><svg class="tick" viewBox="0 0 40 32" aria-hidden="true"><path d="M3 17l10 10L37 3"/></svg><span>English <b>Genius</b></span></a>
+    <a class="logo" href="./" aria-label="English Genius home"><img class="mark" src="assets/icon.svg" width="38" height="38" alt=""><span>English <b>Genius</b></span></a>
     <button class="menuBtn" aria-expanded="false" aria-controls="navLinks"><span class="sr">Menu</span><i></i><i></i><i></i></button>
     <div class="navLinks" id="navLinks">
       <a href="#games">Games</a>
@@ -213,7 +213,7 @@
 
 <footer class="foot">
   <div class="wrap footIn">
-    <div><a class="logo" href="./"><svg class="tick" viewBox="0 0 40 32" aria-hidden="true"><path d="M3 17l10 10L37 3"/></svg><span>English <b>Genius</b></span></a><p>Fun English learning for Sri Lankan students, from Grade 6 to O/L.</p></div>
+    <div><a class="logo" href="./"><img class="mark" src="assets/icon.svg" width="38" height="38" alt=""><span>English <b>Genius</b></span></a><p>Fun English learning for Sri Lankan students, from Grade 6 to O/L.</p></div>
     <nav class="footLinks" aria-label="Footer"><a href="#games">Games</a><a href="#path">Grade 6 → O/L</a><a href="#exam">O/L Exam Hall</a><a href="#faq">FAQ</a><a href="app/login.html" rel="nofollow">Student login</a></nav>
     <div class="footLinks"><a href="tel:+94722816456" data-tel><span data-phone>072 281 6456</span></a><a href="https://wa.me/94722816456?text=Hi!%20I%20would%20like%20to%20join%20English%20Genius." data-wa target="_blank" rel="noopener">WhatsApp</a><div class="langs"><a href="./" hreflang="en" lang="en" aria-current="page">EN</a><a href="si/" hreflang="si" lang="si">සිං</a><a href="ta/" hreflang="ta" lang="ta">தமி</a></div></div>
   </div>
@@ -222,6 +222,6 @@
 
 <a class="waFloat" href="https://wa.me/94722816456?text=Hi!%20I%20would%20like%20to%20join%20English%20Genius." data-wa target="_blank" rel="noopener" aria-label="Chat on WhatsApp"><svg aria-hidden="true" viewBox="0 0 32 32"><path fill="currentColor" d="M16 3a13 13 0 0 0-11.2 19.6L3 29l6.6-1.7A13 13 0 1 0 16 3Zm0 23.6a10.6 10.6 0 0 1-5.4-1.5l-.4-.2-3.9 1 1-3.8-.2-.4A10.6 10.6 0 1 1 16 26.6Zm5.8-7.9c-.3-.2-1.9-.9-2.2-1s-.5-.2-.7.2-.8 1-1 1.2-.4.2-.7 0a8.6 8.6 0 0 1-4.3-3.7c-.3-.6.3-.5.9-1.6a.6.6 0 0 0 0-.5l-1-2.4c-.3-.6-.5-.5-.7-.5h-.6a1.2 1.2 0 0 0-.9.4 3.6 3.6 0 0 0-1.1 2.7 6.3 6.3 0 0 0 1.3 3.3 14.4 14.4 0 0 0 5.5 4.9c2 .9 2.8.9 3.8.8a3.3 3.3 0 0 0 2.1-1.5 2.7 2.7 0 0 0 .2-1.5c-.1-.2-.3-.3-.6-.4Z"/></svg></a>
 
-<script src="assets/site.js?v=mvhv3kwt" defer data-msg="Hi! I would like to join English Genius."></script>
+<script src="assets/site.js?v=mvhvpg10" defer data-msg="Hi! I would like to join English Genius."></script>
 </body>
 </html>

diff --git a/app/index.html b/app/index.html
@@ -1040,7 +1040,7 @@
     background:radial-gradient(circle at 20% 20%,#FFD3E8,transparent 45%),linear-gradient(160deg,#E9D5FF,#C7D2FE 55%,#A5F3FC)}
   #egGate.gone{opacity:0;pointer-events:none}
   #egGate .egGateBox{max-width:440px;font-family:'Fredoka',sans-serif;font-size:18px;color:#4C1D95;line-height:1.5}
-  #egGate .egOwl{font-size:64px;display:block;animation:egBob 2.4s ease-in-out infinite}
+  #egGate .egOwl{display:block;margin:0 auto 8px;width:88px;height:88px;border-radius:24px;animation:egBob 2.4s ease-in-out infinite}
   #egGate .egSpin{width:44px;height:44px;margin:14px auto 0;border-radius:50%;border:5px solid #DDD6FE;border-top-color:#7C3AED;animation:egSpin .8s linear infinite}
   @keyframes egSpin{to{transform:rotate(360deg)}}
   .egHide{display:none!important}
@@ -1269,7 +1269,7 @@
 </style>
 </head>
 <body class="antialiased">
-<div id="egGate"><div class="egGateBox"><span class="egOwl">🦉</span><b style="font-size:30px">English Genius</b><div id="egGateMsg"><div class="egSpin"></div><p style="margin-top:10px">Checking your account…</p></div></div></div>
+<div id="egGate"><div class="egGateBox"><img class="egOwl" src="../assets/icon.svg" width="88" height="88" alt=""><b style="font-size:30px">English Genius</b><div id="egGateMsg"><div class="egSpin"></div><p style="margin-top:10px">Checking your account…</p></div></div></div>
 <div id="splash">
   <span class="spFloat" style="left:8%;top:14%">⭐</span><span class="spFloat" style="right:10%;top:20%;animation-delay:1s">🚀</span>
   <span class="spFloat" style="left:14%;bottom:18%;animation-delay:2s">📚</span><span class="spFloat" style="right:14%;bottom:14%;animation-delay:1.5s">🎮</span>

diff --git a/app/login.html b/app/login.html
@@ -21,8 +21,7 @@
   .stars span{position:fixed;font-size:28px;opacity:.55;animation:bob 6s ease-in-out infinite;pointer-events:none}
   @keyframes bob{50%{transform:translateY(-14px) rotate(8deg)}}
   .card{width:min(420px,100%);background:#fff;border-radius:32px;padding:32px 28px 26px;box-shadow:0 24px 60px -20px rgba(76,29,149,.45),0 0 0 6px rgba(255,255,255,.6);position:relative}
-  .logo{width:84px;height:84px;margin:-74px auto 8px;border-radius:28px;display:grid;place-items:center;font-size:44px;
-    background:linear-gradient(150deg,#FF5DA2,#7C3AED);box-shadow:0 12px 26px -8px rgba(124,58,237,.7);border:5px solid #fff}
+  .logo{display:block;width:84px;height:84px;margin:-74px auto 8px;border-radius:24px;box-shadow:0 12px 26px -10px rgba(20,33,61,.5);border:5px solid #fff}
   h1{font-family:'Fredoka',sans-serif;font-size:34px;line-height:1;margin:6px 0 4px;text-align:center;
     background:linear-gradient(90deg,#DB2777,#7C3AED);-webkit-background-clip:text;background-clip:text;color:transparent}
   .sub{text-align:center;margin:0 0 22px;font-weight:700;color:#7C6BB3}
@@ -54,7 +53,7 @@
 
 <a class="home" href="../">← English Genius website</a>
 <main class="card">
-  <div class="logo">🦉</div>
+  <img class="logo" src="../assets/icon.svg" width="84" height="84" alt="">
   <h1>English Genius</h1>
   <p class="sub" id="sub">Log in to play, learn and win stars!</p>
 

diff --git a/assets/site.css b/assets/site.css
@@ -45,6 +45,7 @@ p{margin:0}
 .nav{display:flex;align-items:center;justify-content:space-between;gap:16px;min-height:68px}
 .logo{display:inline-flex;align-items:center;gap:8px;font:800 22px var(--display);text-decoration:none;letter-spacing:-.02em;white-space:nowrap}
 .logo b{font-weight:800;color:var(--pen)}
+.logo .mark{width:38px;height:38px;border-radius:10px;flex:none;box-shadow:0 2px 6px rgba(20,33,61,.18)}
 .tick{width:26px;height:22px;fill:none;stroke:var(--pen);stroke-width:5;stroke-linecap:round;stroke-linejoin:round}
 .navLinks{display:flex;align-items:center;gap:22px}
 .navLinks>a:not(.btn){font-weight:700;text-decoration:none;color:var(--ink2);white-space:nowrap}
@@ -186,7 +187,6 @@ details p{padding:0 0 22px;color:var(--ink2);max-width:40em}
 .footIn{display:grid;grid-template-columns:1.5fr 1fr 1fr;gap:32px}
 .foot .logo{color:#fff}
 .foot .logo b{color:#FF8A8A}
-.foot .tick{stroke:#FF8A8A}
 .foot p{margin-top:12px;max-width:30em}
 .footLinks{display:flex;flex-direction:column;gap:10px}
 .footLinks a{text-decoration:none;font-weight:700}

diff --git a/404.html b/404.html
@@ -1,2 +1,2 @@
-<!DOCTYPE html><html lang="en"><head><meta charset="UTF-8"><meta name="viewport" content="width=device-width, initial-scale=1"><title>Page not found · English Genius</title><meta name="robots" content="noindex"><link rel="icon" href="/favicon.ico"><link rel="stylesheet" href="/assets/site.css?v=mvhv3kwt"></head>
+<!DOCTYPE html><html lang="en"><head><meta charset="UTF-8"><meta name="viewport" content="width=device-width, initial-scale=1"><title>Page not found · English Genius</title><meta name="robots" content="noindex"><link rel="icon" href="/favicon.ico"><link rel="stylesheet" href="/assets/site.css?v=mvhvpg10"></head>
 <body><header class="top" style="min-height:100vh;display:grid;place-items:center;text-align:center;padding:40px 16px"><div style="position:relative;z-index:2"><p style="font-size:84px;margin:0">🦉</p><h1>404 · Page not found</h1><p class="lead" style="margin-inline:auto">This page has wandered off. Let's get you back home.</p><a class="btn btnWa big" href="/">Back to home</a></div></header></body></html>
